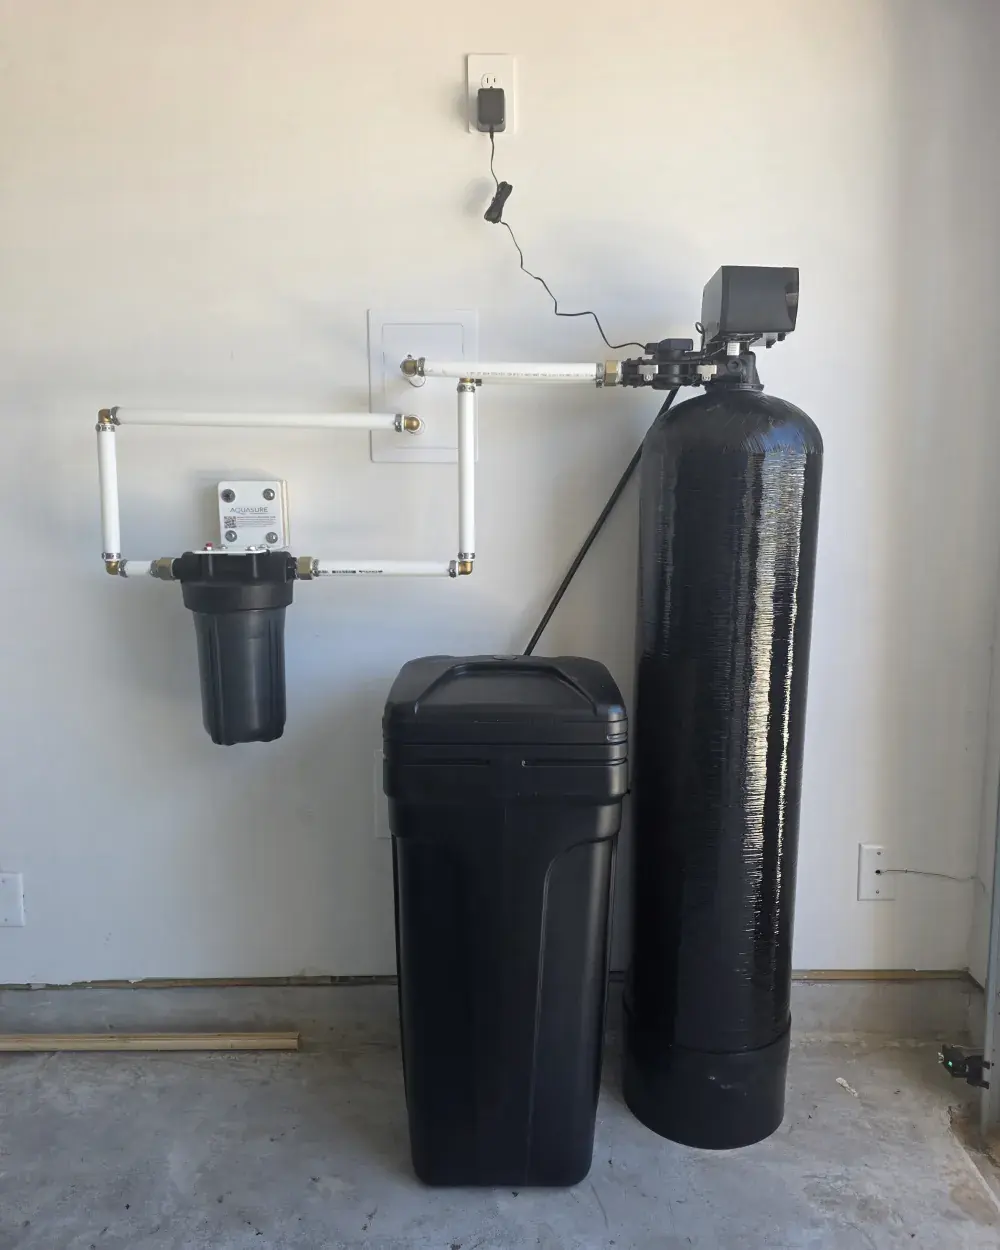
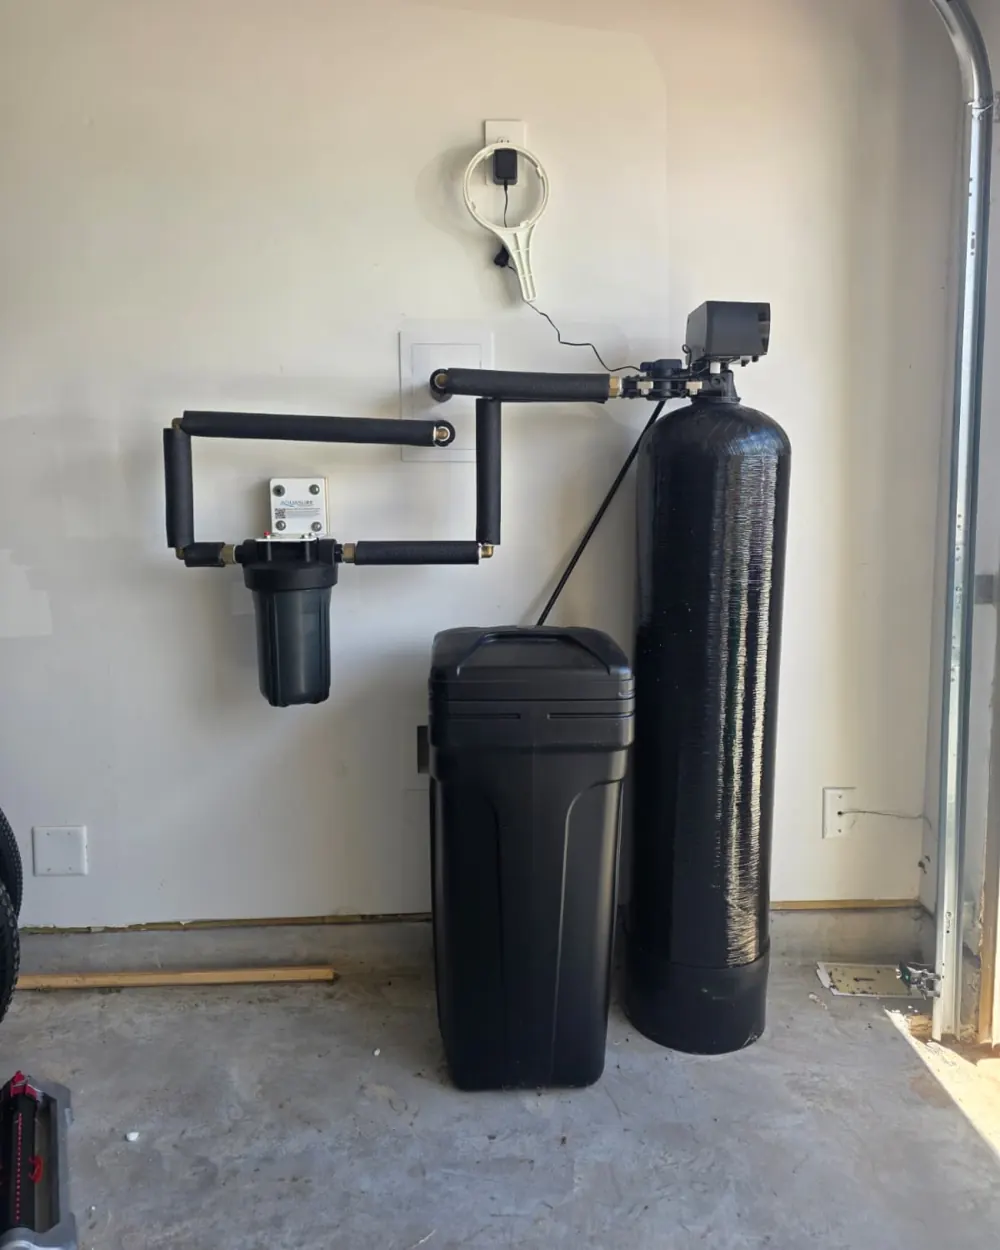
Better softener card: insulated bypass, not bare PVC
Mirrors mix4services@bab5700.

diff --git a/index.html b/index.html
@@ -1943,10 +1943,10 @@ dialog.a11y::backdrop{background:rgba(8,16,24,.5)}
       altBefore:'Boxed softener and brine cabinet standing in the garage.',
       altAfter:'Whole-house water softener with the pre-filter plumbed ahead of it.',
       note:'Whole-house softener with the pre-filter ahead of it and the bypass built tight to the wall.' },
-    { id:'sof-6', cat:'softener', title:'Filter ahead of the softener', meta:'Water softener install',
-      after:'img/sof-6-after.webp?v=3ba0b40b',
-      altAfter:'Water softener with a sediment pre-filter plumbed ahead of it on a garage wall.',
-      note:'Sediment pre-filter ahead of the softener, so the resin bed is not chewed up by grit.' },
+    { id:'sof-6', cat:'softener', title:'Insulated bypass and pre-filter', meta:'Water softener install',
+      after:'img/sof-6-after.webp?v=c4f1708d',
+      altAfter:'Water softener, brine tank and sediment pre-filter on a garage wall, the whole bypass loop run in insulated black pipe.',
+      note:'Sediment pre-filter ahead of the softener so the resin bed is not chewed up by grit, and the whole loop insulated - a bypass in a Houston garage has to survive a freeze as well as a summer.' },
     { id:'sof-7', cat:'softener', title:'Twin tanks, larger house', meta:'Water softener install',
       after:'img/sof-7-after.webp?v=6e1980eb',
       altAfter:'Two water softener tanks standing side by side with a shared brine cabinet.',

diff --git a/v2.html b/v2.html
@@ -1999,10 +1999,10 @@ dialog.a11y::backdrop{background:rgba(8,16,24,.5)}
       altBefore:'Boxed softener and brine cabinet standing in the garage.',
       altAfter:'Whole-house water softener with the pre-filter plumbed ahead of it.',
       note:'Whole-house softener with the pre-filter ahead of it and the bypass built tight to the wall.' },
-    { id:'sof-6', cat:'softener', title:'Filter ahead of the softener', meta:'Water softener install',
-      after:'img/sof-6-after.webp?v=3ba0b40b',
-      altAfter:'Water softener with a sediment pre-filter plumbed ahead of it on a garage wall.',
-      note:'Sediment pre-filter ahead of the softener, so the resin bed is not chewed up by grit.' },
+    { id:'sof-6', cat:'softener', title:'Insulated bypass and pre-filter', meta:'Water softener install',
+      after:'img/sof-6-after.webp?v=c4f1708d',
+      altAfter:'Water softener, brine tank and sediment pre-filter on a garage wall, the whole bypass loop run in insulated black pipe.',
+      note:'Sediment pre-filter ahead of the softener so the resin bed is not chewed up by grit, and the whole loop insulated - a bypass in a Houston garage has to survive a freeze as well as a summer.' },
     { id:'sof-7', cat:'softener', title:'Twin tanks, larger house', meta:'Water softener install',
       after:'img/sof-7-after.webp?v=6e1980eb',
       altAfter:'Two water softener tanks standing side by side with a shared brine cabinet.',
